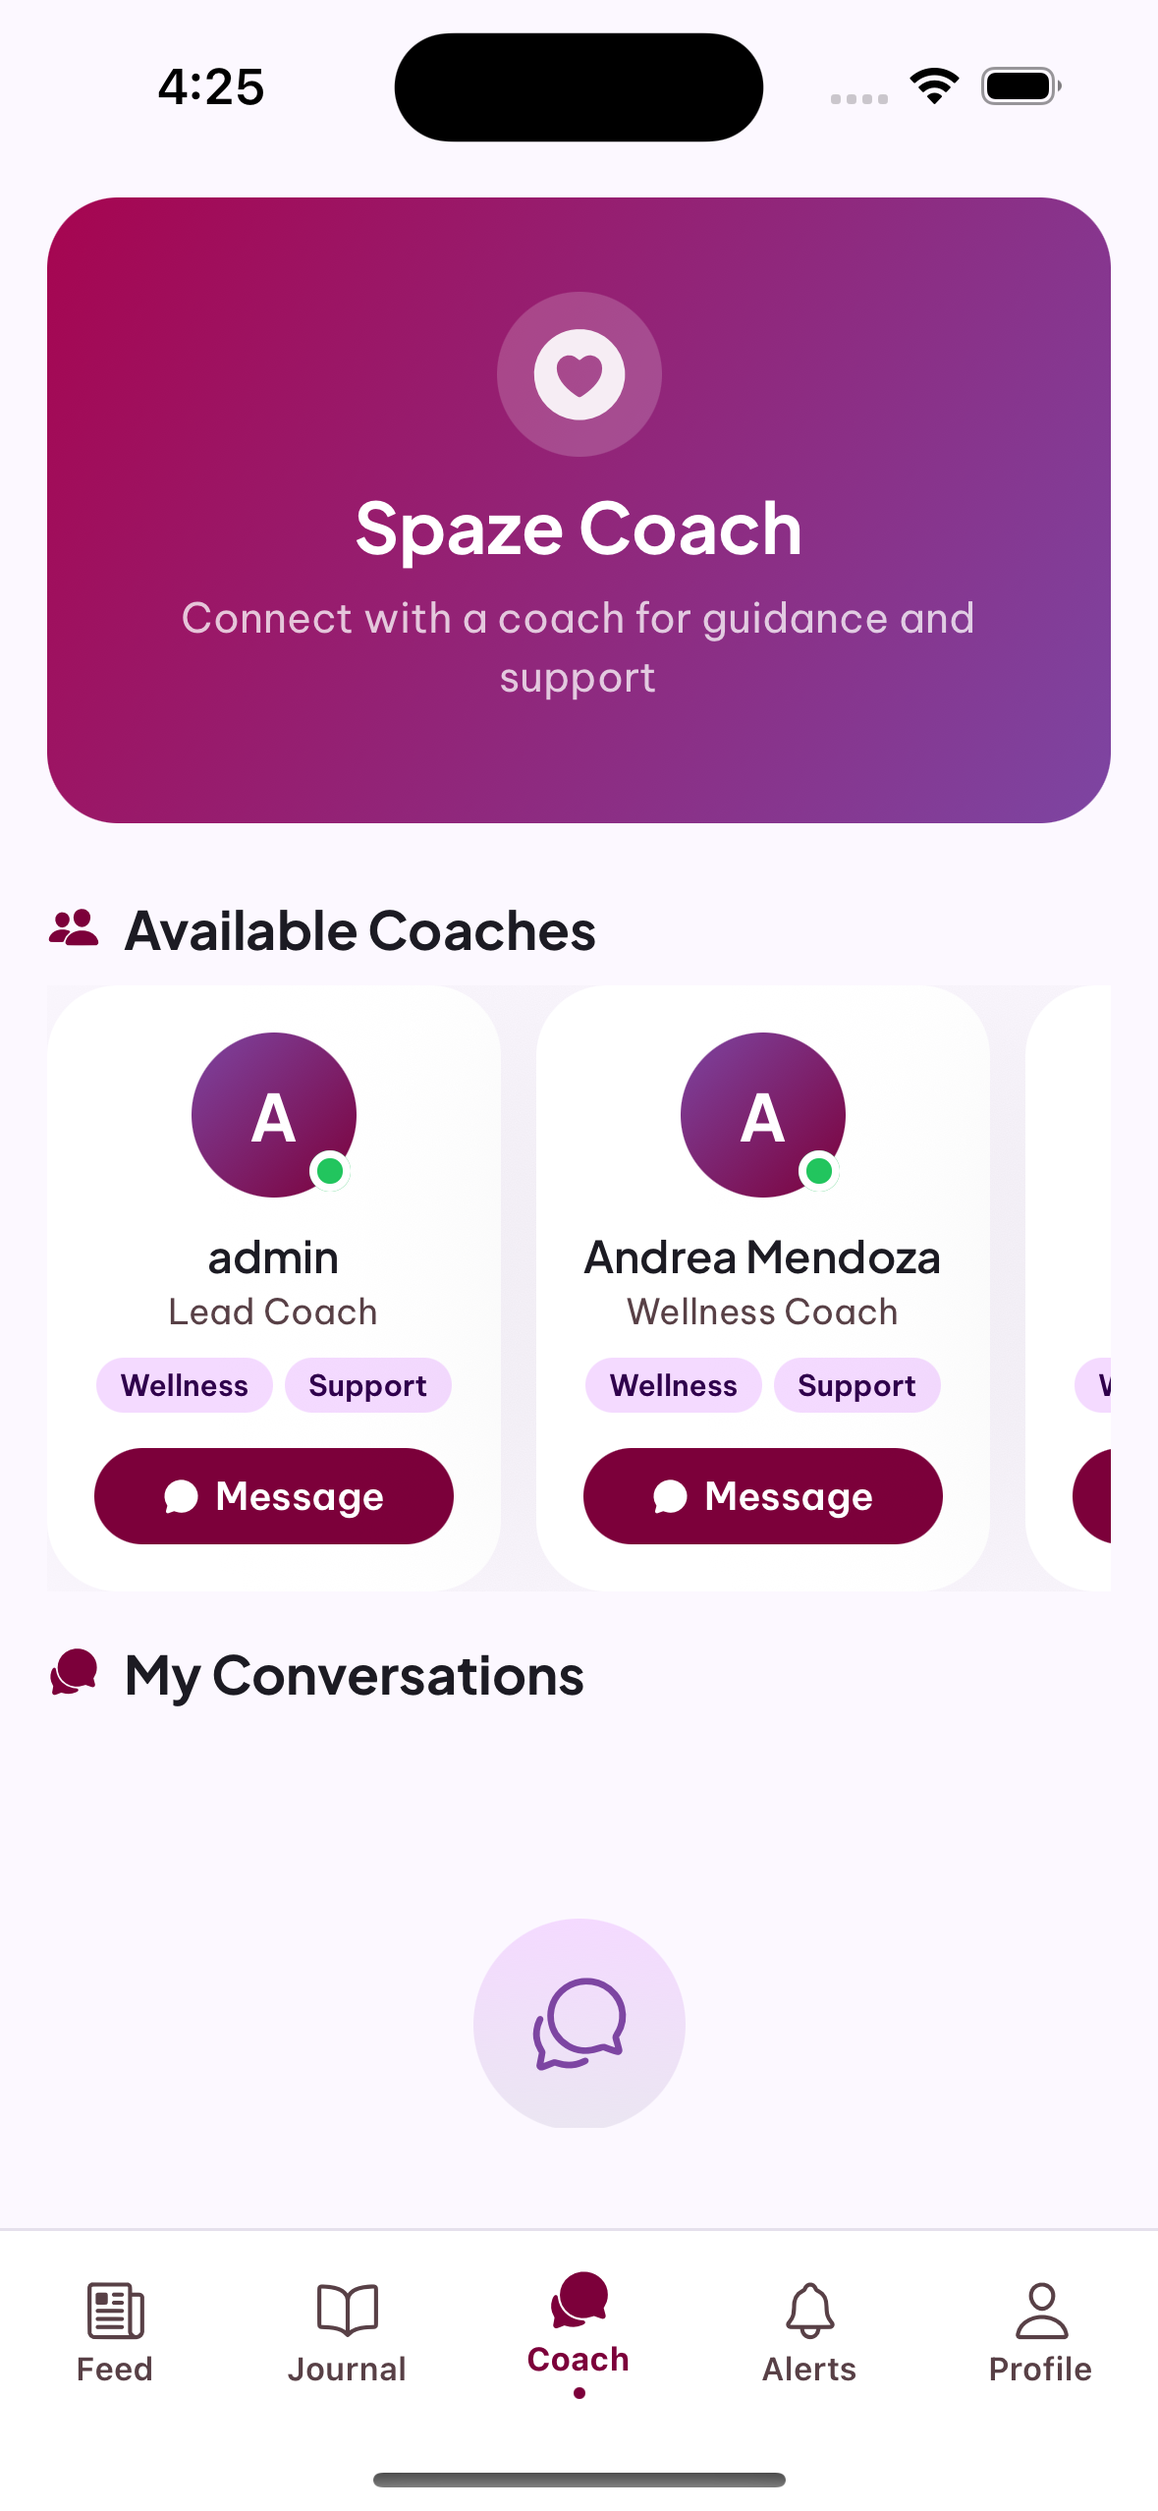
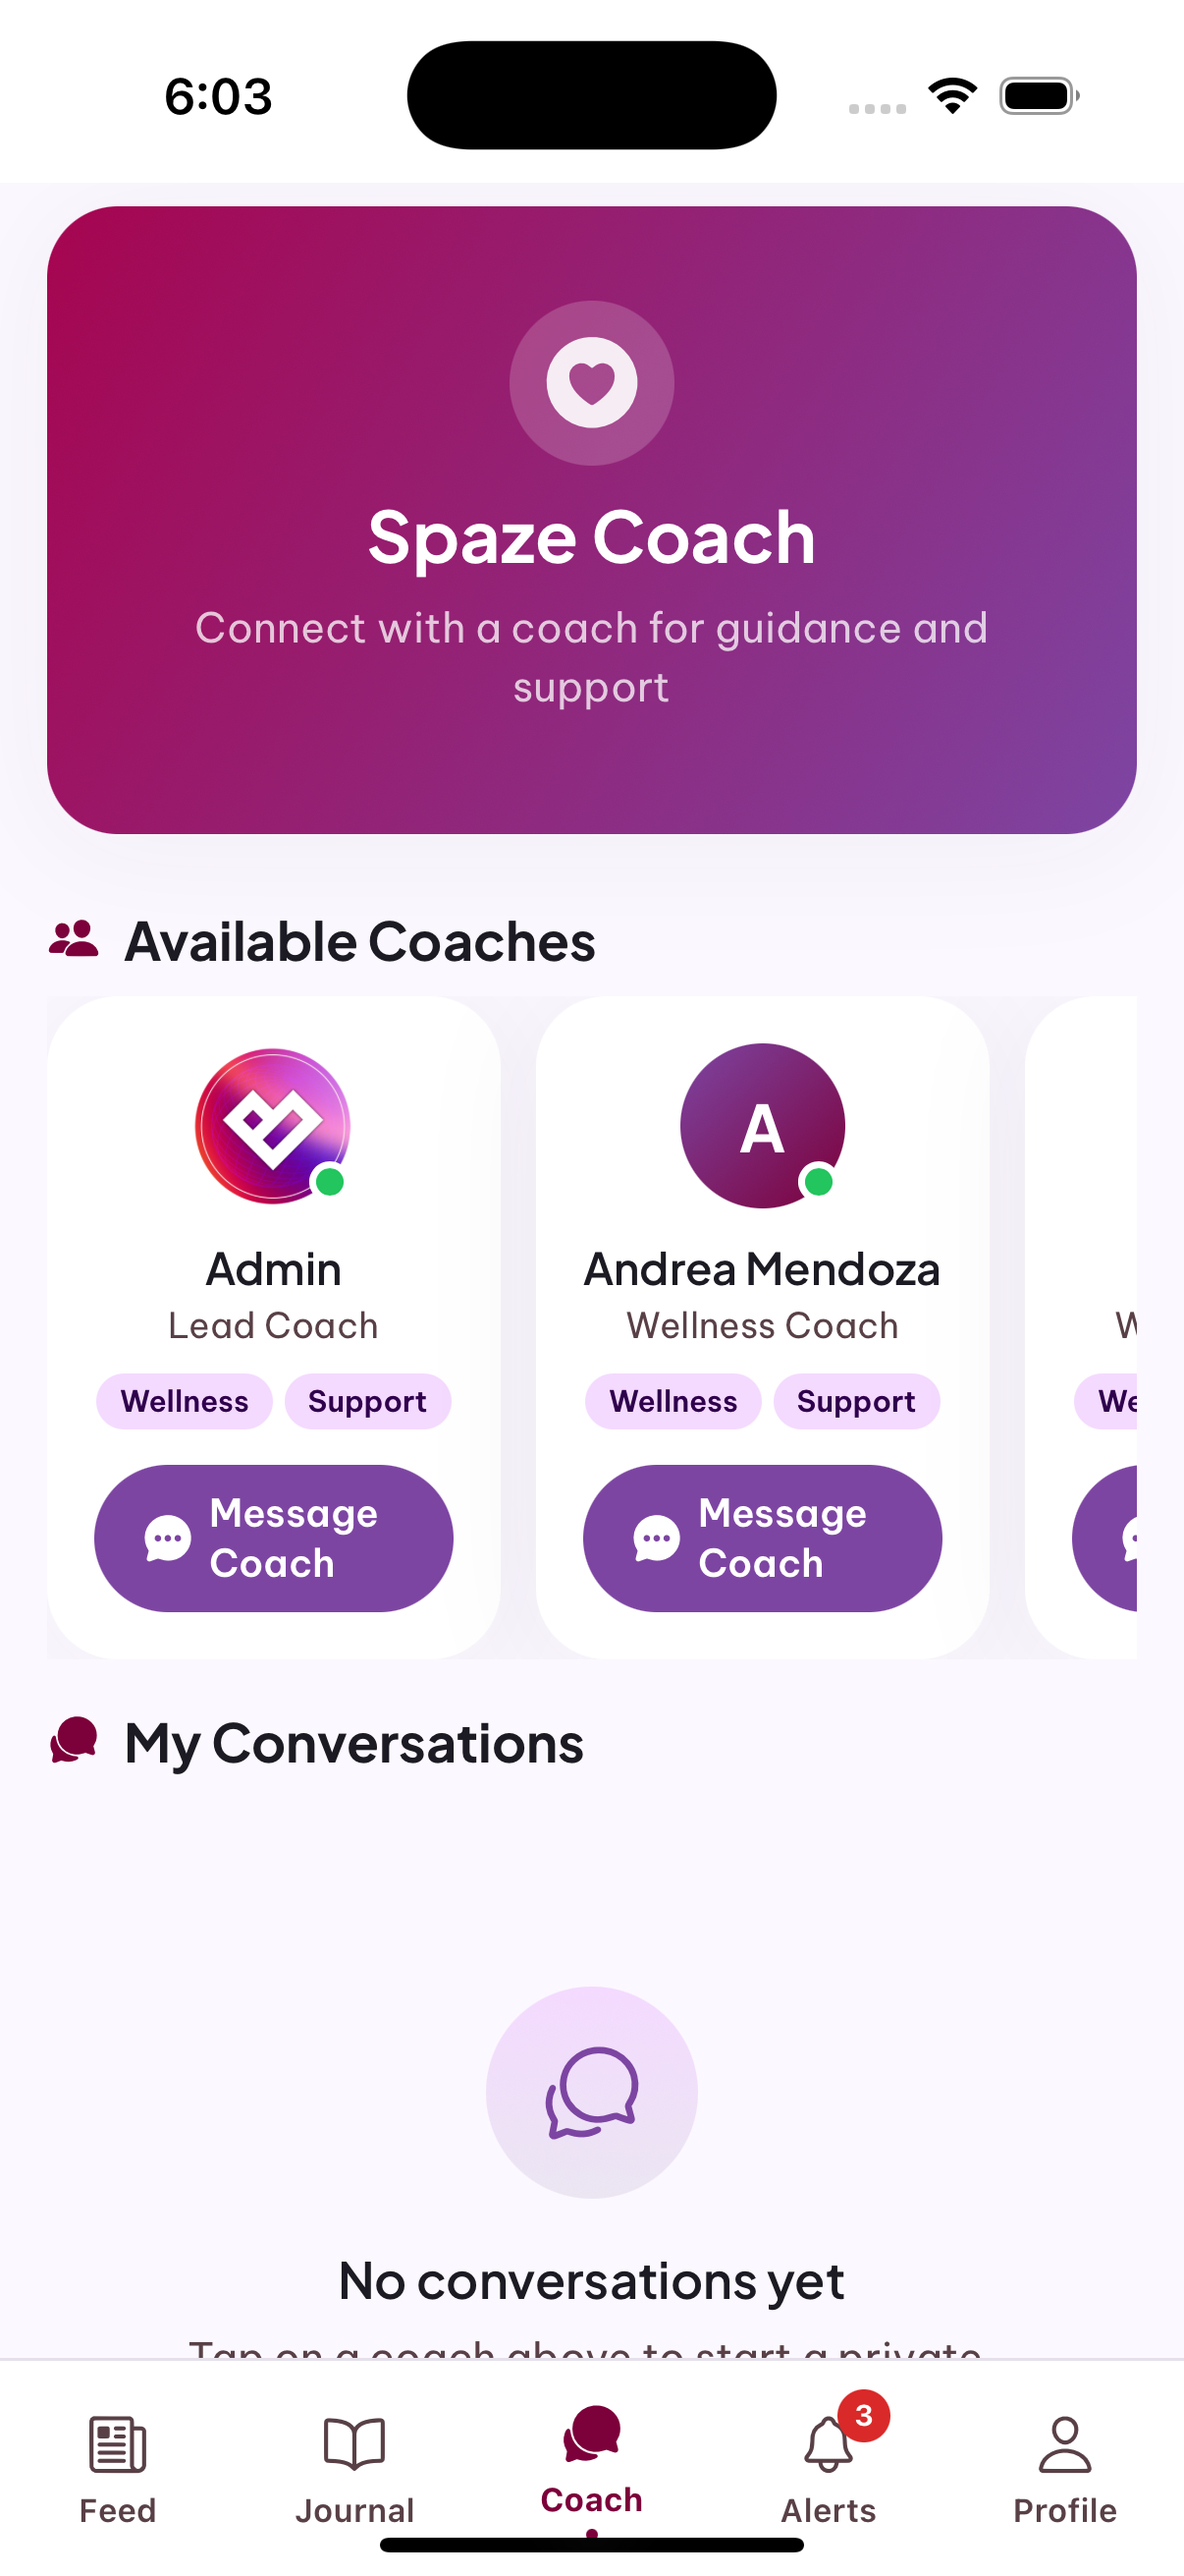
feat: pin-login uses username+pin and polish UI badges/time labels
- remove unique constraint from users.pin with prisma migration
- change /api/auth/pin-login to require displayName + pin
- simplify pin generation and adjust updatePin conflict handling
- add 404 handling for missing user in web push subscription registration
- switch encouragement/reflection OpenAI calls to gpt-5.4-mini with max_completion_tokens
- polish feed/detail relative time labels (m/h/d), coach CTA text, and home topbar safe-area padding
- sync coach review and notifications unread badge state updates
- refresh iPad/iPhone screenshot asset set including notifications variants
- update memory-bank and AGENTS docs for auth model changes

diff --git a/apps/mobile/screens/CoachDashboard.tsx b/apps/mobile/screens/CoachDashboard.tsx
@@ -28,6 +28,7 @@ import { colors as defaultColors, fonts, radii, ambientShadow } from '../constan
 import { useThemeStore } from '../context/ThemeContext';
 import { useScrollBarVisibility } from '../hooks/useScrollBarVisibility';
 import { useUserStore } from '../context/UserContext';
+import { useBadgeStore } from '../hooks/useNotifications';
 import {
   apiGetReviewQueue,
   apiModeratePost,
@@ -133,6 +134,7 @@ export default function CoachDashboard() {
   const [refreshing, setRefreshing] = useState(false);
   const [acting, setActing] = useState<string | null>(null);
   const isAdmin = role === 'ADMIN';
+  const setReviewCount = useBadgeStore((s) => s.setReviewCount);
 
   // ── Invite state (admin only) ─────────────
   const [inviteCodes, setInviteCodes] = useState<InviteCode[]>([]);
@@ -186,7 +188,11 @@ export default function CoachDashboard() {
     setActing(postId);
     try {
       await apiModeratePost(postId, { coachId: userId, action });
-      setPosts((prev) => prev.filter((p) => p.id !== postId));
+      setPosts((prev) => {
+        const next = prev.filter((p) => p.id !== postId);
+        setReviewCount(next.length + comments.length);
+        return next;
+      });
     } catch (err: any) {
       const msg = err?.response?.data?.error ?? 'Could not moderate post.';
       showAlert('Error', msg);
@@ -198,7 +204,11 @@ export default function CoachDashboard() {
     setActing(commentId);
     try {
       await apiModerateComment(commentId, { coachId: userId, action });
-      setComments((prev) => prev.filter((c) => c.id !== commentId));
+      setComments((prev) => {
+        const next = prev.filter((c) => c.id !== commentId);
+        setReviewCount(posts.length + next.length);
+        return next;
+      });
     } catch (err: any) {
       const msg = err?.response?.data?.error ?? 'Could not moderate comment.';
       showAlert('Error', msg);
@@ -210,7 +220,11 @@ export default function CoachDashboard() {
     setActing(postId);
     try {
       await apiDeletePost(postId, userId);
-      setPosts((prev) => prev.filter((p) => p.id !== postId));
+      setPosts((prev) => {
+        const next = prev.filter((p) => p.id !== postId);
+        setReviewCount(next.length + comments.length);
+        return next;
+      });
     } catch (err: any) {
       const msg = err?.response?.data?.error ?? 'Could not delete post.';
       showAlert('Error', msg);
@@ -222,7 +236,11 @@ export default function CoachDashboard() {
     setActing(commentId);
     try {
       await apiDeleteComment(postId, commentId, userId);
-      setComments((prev) => prev.filter((c) => c.id !== commentId));
+      setComments((prev) => {
+        const next = prev.filter((c) => c.id !== commentId);
+        setReviewCount(posts.length + next.length);
+        return next;
+      });
     } catch (err: any) {
       const msg = err?.response?.data?.error ?? 'Could not delete comment.';
       showAlert('Error', msg);

diff --git a/apps/mobile/screens/HomeScreen.tsx b/apps/mobile/screens/HomeScreen.tsx
@@ -26,7 +26,7 @@ import { useNavigation, useFocusEffect, useRoute, type RouteProp } from "@react-
 import type { DrawerNavigationProp } from "@react-navigation/drawer";
 import { usePosts } from "../hooks/usePosts";
 import { useUser } from "../hooks/useUser";
-import { SafeAreaView } from "react-native-safe-area-context";
+import { SafeAreaView, useSafeAreaInsets } from "react-native-safe-area-context";
 import { useNotifications } from "../hooks/useNotifications";
 import { apiGetDashboardStats, apiRecordVisit, resolveAvatarUrl, type DashboardStats } from "../services/api";
 import { validatePostContent } from "../utils/validators";
@@ -127,6 +127,7 @@ export default function HomeScreen() {
   const colors = useThemeStore((s) => s.colors);
   const isDark = useThemeStore((s) => s.isDark);
   const styles = useMemo(() => createStyles(colors), [colors]);
+  const insets = useSafeAreaInsets();
   const { username, role, userId, avatarUrl } = useUser();
   const isCoach = role === "COACH" || role === "ADMIN";
   const { posts, loading, loadingMore, hasMore, error, fetchPosts, loadMore, submitPost } = usePosts();
@@ -697,6 +698,7 @@ export default function HomeScreen() {
   return (
     <SafeAreaView
       style={[styles.screen, { backgroundColor: colors.background }]}
+      edges={['left', 'right', 'bottom']}
     >
       <StatusBar
         barStyle={isDark ? "light-content" : "dark-content"}
@@ -708,7 +710,7 @@ export default function HomeScreen() {
         onLayout={(e) => setTopBarHeight(e.nativeEvent.layout.height)}
         style={[
           styles.topBar,
-          { backgroundColor: colors.surfaceContainerLowest, transform: [{ translateY: topBarTranslateY }] },
+          { backgroundColor: colors.surfaceContainerLowest, transform: [{ translateY: topBarTranslateY }], paddingTop: Platform.OS !== 'web' ? insets.top + 6 : 10 },
         ]}
       >
         <View style={styles.topBarLeft}>
@@ -1026,7 +1028,7 @@ const createStyles = (colors: typeof defaultColors) => StyleSheet.create({
     flexDirection: "row",
     alignItems: "center",
     paddingHorizontal: Platform.OS === "web" ? 20 : 12,
-    paddingVertical: 10,
+    paddingBottom: 10,
     backgroundColor: colors.surfaceContainerLowest,
     gap: Platform.OS === "web" ? 12 : 8,
     position: "absolute",

diff --git a/server/src/controllers/userController.ts b/server/src/controllers/userController.ts
@@ -112,17 +112,10 @@ export function isAdminUsername(name: string): boolean {
 }
 
 /**
- * Generate a unique 6-digit PIN code.
- * Retries up to 10 times if a collision occurs.
+ * Generate a random 6-digit PIN code.
  */
-async function generateUniquePin(): Promise<string> {
-  for (let i = 0; i < 10; i++) {
-    const pin = String(crypto.randomInt(100000, 999999));
-    const existing = await prisma.user.findUnique({ where: { pin }, select: { id: true } });
-    if (!existing) return pin;
-  }
-  // Fallback: 8-digit PIN for extreme collision edge case
-  return String(crypto.randomInt(10000000, 99999999));
+function generatePin(): string {
+  return String(crypto.randomInt(100000, 999999));
 }
 
 function toMentionHandle(displayName: string): string {
@@ -271,7 +264,7 @@ export async function createUser(req: Request, res: Response): Promise<void> {
           // Update deviceId when logging in from a new device via PIN
           ...(deviceId ? { deviceId } : {}),
           // Backfill PIN for users created before the PIN feature
-          ...(!existingUser.pin ? { pin: await generateUniquePin() } : {}),
+          ...(!existingUser.pin ? { pin: generatePin() } : {}),
         },
         select: { id: true, displayName: true, role: true, avatarUrl: true, bannerUrl: true, pin: true },
       });
@@ -295,7 +288,7 @@ export async function createUser(req: Request, res: Response): Promise<void> {
     }
 
     // ── New user: create with deviceId and generate PIN ──
-    const pin = await generateUniquePin();
+    const pin = generatePin();
     const user = await prisma.user.create({
       data: {
         displayName,
@@ -840,8 +833,6 @@ export async function updatePin(req: Request, res: Response): Promise<void> {
   } catch (err: any) {
     if (err.code === 'P2025') {
       res.status(404).json({ error: 'User not found.' });
-    } else if (err.code === 'P2002') {
-      res.status(409).json({ error: 'This PIN is already in use. Please choose a different one.' });
     } else {
       console.error('[UserController] updatePin error:', err);
       res.status(500).json({ error: 'Failed to update PIN.' });

diff --git a/server/src/controllers/authController.ts b/server/src/controllers/authController.ts
@@ -123,22 +123,26 @@ export async function redeemInvite(req: Request, res: Response): Promise<void> {
 
 /**
  * POST /api/auth/pin-login
- * Body: { pin: string; deviceId?: string }
+ * Body: { displayName: string; pin: string; deviceId?: string }
  *
- * Authenticates a user by their unique PIN code and optionally binds a new device.
+ * Authenticates a user by displayName + PIN and optionally binds a new device.
  * Returns: { userId, displayName, role, avatarUrl, token }
  */
 export async function pinLogin(req: Request, res: Response): Promise<void> {
-  const { pin, deviceId } = req.body as { pin: string; deviceId?: string };
+  const { displayName, pin, deviceId } = req.body as { displayName?: string; pin: string; deviceId?: string };
 
   if (!pin || typeof pin !== 'string') {
     res.status(400).json({ error: 'pin is required.' });
     return;
   }
+  if (!displayName || typeof displayName !== 'string') {
+    res.status(400).json({ error: 'displayName is required.' });
+    return;
+  }
 
   try {
     const user = await prisma.user.findUnique({
-      where: { pin },
+      where: { displayName },
       select: {
         id: true,
         displayName: true,
@@ -148,8 +152,8 @@ export async function pinLogin(req: Request, res: Response): Promise<void> {
       },
     });
 
-    if (!user) {
-      res.status(401).json({ error: 'Invalid PIN.' });
+    if (!user || user.pin !== pin) {
+      res.status(401).json({ error: 'Invalid username or PIN.' });
       return;
     }
 

diff --git a/apps/mobile/screens/NotificationsScreen.tsx b/apps/mobile/screens/NotificationsScreen.tsx
@@ -35,6 +35,7 @@ import type { Notification, Post } from '../../../packages/types';
 import { colors as defaultColors, fonts, spacing, radii, ambientShadow } from '../constants/theme';
 import { useThemeStore } from '../context/ThemeContext';
 import { useScrollBarVisibility } from '../hooks/useScrollBarVisibility';
+import { useBadgeStore } from '../hooks/useNotifications';
 
 type NavigationType = DrawerNavigationProp<any>;
 
@@ -127,6 +128,7 @@ export default function NotificationsScreen() {
   const colors = useThemeStore((s) => s.colors);
   const isDark = useThemeStore((s) => s.isDark);
   const styles = useMemo(() => createStyles(colors), [colors]);
+  const setUnreadCount = useBadgeStore((s) => s.setUnreadCount);
   const [notifications, setNotifications] = useState<Notification[]>([]);
   const [loading, setLoading] = useState(true);
   const [refreshing, setRefreshing] = useState(false);
@@ -187,6 +189,7 @@ export default function NotificationsScreen() {
     try {
       await apiMarkAllNotificationsRead({ userId });
       setNotifications((prev) => prev.map((n) => ({ ...n, read: true })));
+      setUnreadCount(0);
     } catch (error) {
       console.error('Failed to mark all as read:', error);
     }

diff --git a/apps/mobile/screens/PostDetailScreen.tsx b/apps/mobile/screens/PostDetailScreen.tsx
@@ -114,9 +114,9 @@ function avatarColors(initial: string): [string, string] {
 function formatRelativeTime(dateStr: string): string {
   const diff = Math.floor((Date.now() - new Date(dateStr).getTime()) / 1000);
   if (diff < 60) return "just now";
-  if (diff < 3600) return `${Math.floor(diff / 60)}m ago`;
-  if (diff < 86400) return `${Math.floor(diff / 3600)}h ago`;
-  return `${Math.floor(diff / 86400)}d ago`;
+  if (diff < 3600) return `${Math.floor(diff / 60)}m`;
+  if (diff < 86400) return `${Math.floor(diff / 3600)}h`;
+  return `${Math.floor(diff / 86400)}d`;
 }
 
 const REACTION_TYPES: ReactionType[] = ["PRAY", "CARE", "SUPPORT", "LIKE"];

diff --git a/server/src/services/dailyReflectionService.ts b/server/src/services/dailyReflectionService.ts
@@ -78,7 +78,7 @@ Your reflection should be:
           content: `Write today's daily reflection for ${key}. Make it unique and relevant.`,
         },
       ],
-      max_tokens: 200,
+      max_completion_tokens: 200,
       temperature: 0.85,
     });
 
@@ -150,7 +150,7 @@ Your reflection should be:
           content: `Here are the user's recent posts:\n${postsSummary}\n\nWrite a personalised daily reflection for ${key} that speaks to what this person seems to be going through.`,
         },
       ],
-      max_tokens: 200,
+      max_completion_tokens: 200,
       temperature: 0.85,
     });
 

diff --git a/apps/mobile/components/PostCard.tsx b/apps/mobile/components/PostCard.tsx
@@ -98,9 +98,9 @@ function formatRelativeTime(dateStr: string): string {
   const diff = Math.floor((now - then) / 1000); // seconds
 
   if (diff < 60) return "just now";
-  if (diff < 3600) return `${Math.floor(diff / 60)}m ago`;
-  if (diff < 86400) return `${Math.floor(diff / 3600)}h ago`;
-  return `${Math.floor(diff / 86400)}d ago`;
+  if (diff < 3600) return `${Math.floor(diff / 60)}m`;
+  if (diff < 86400) return `${Math.floor(diff / 3600)}h`;
+  return `${Math.floor(diff / 86400)}d`;
 }
 
 // PostCard is used inside drawer screens, so we use any for navigation type

diff --git a/server/src/services/biblicalEncouragementService.ts b/server/src/services/biblicalEncouragementService.ts
@@ -22,7 +22,7 @@ export async function generateBiblicalEncouragement(): Promise<string> {
 
   try {
     const completion = await openai.chat.completions.create({
-      model: 'gpt-4o-mini',
+      model: 'gpt-5.4-mini',
       messages: [
         {
           role: 'system',
@@ -52,7 +52,7 @@ Examples:
           content: 'Generate a short biblical encouragement in Taglish for a Gen Z Filipino who needs hope today.',
         },
       ],
-      max_tokens: 150,
+      max_completion_tokens: 150,
       temperature: 0.9,
     });
 

diff --git a/apps/mobile/screens/ProfileScreen.tsx b/apps/mobile/screens/ProfileScreen.tsx
@@ -640,12 +640,8 @@ export default function ProfileScreen() {
                       colors.surfaceVariant,
                     ]}
                     style={[
+                      StyleSheet.absoluteFillObject,
                       s.avatarPlaceholder,
-                      {
-                        width: avatarSize,
-                        height: avatarSize,
-                        borderRadius: radii.full,
-                      },
                     ]}
                   >
                     <Text

diff --git a/apps/mobile/screens/SpazeCoachScreen.tsx b/apps/mobile/screens/SpazeCoachScreen.tsx
@@ -202,7 +202,7 @@ export default function SpazeCoachScreen({ navigation }: any) {
         ) : (
           <View style={[s.coachMsgBtn, { backgroundColor: colors.secondary }]}>
             <Ionicons name="chatbubble-ellipses" size={18} color={colors.onPrimary} />
-            <Text style={[s.coachMsgBtnText, { color: colors.onPrimary }]}>Message Coach</Text>
+            <Text style={[s.coachMsgBtnText, { color: colors.onPrimary }]}>Message</Text>
           </View>
         )}
       </TouchableOpacity>

diff --git a/server/src/controllers/notificationController.ts b/server/src/controllers/notificationController.ts
@@ -174,7 +174,11 @@ export async function registerWebPushSubscription(req: Request, res: Response): 
     });
 
     res.json({ success: true });
-  } catch (error) {
+  } catch (error: any) {
+    if (error?.code === 'P2025') {
+      res.status(404).json({ error: 'User not found' });
+      return;
+    }
     console.error('Error registering web push subscription:', error);
     res.status(500).json({ error: 'Failed to register web push subscription' });
   }
